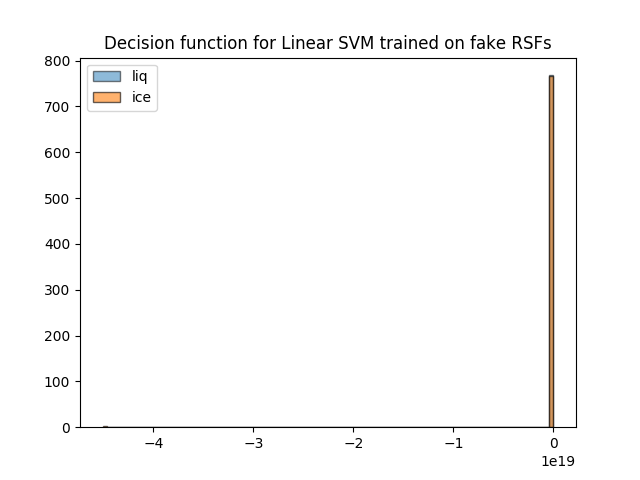
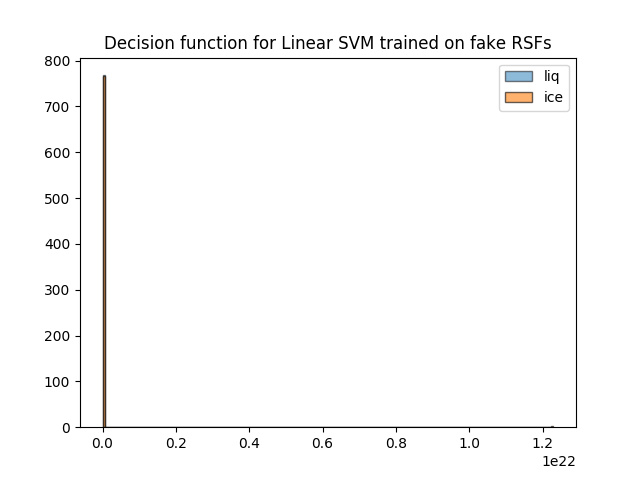
trying to make better histogram of fake rsf-trained svm decision function

diff --git a/rsf_svm.py b/rsf_svm.py
@@ -81,7 +81,7 @@ def validation_curve(X, y, fname="linearsvm_validation.png"):
     plot_scores(train_scores, test_scores, "Validation Curve with SVM", param_range, 
                 fname, plt.semilogx, "C")
 
-def plot_SVM_confidence(X, y, sep_val_confidence=False, X_val=None, y_val=None, fname="confidence.png", title="Decision Function"):
+def plot_SVM_confidence(X, y, sep_val_confidence=False, X_val=None, y_val=None, nbins=100, fname="confidence.png", title="Decision Function"):
     if not sep_val_confidence:
         X_val = X
         y_val = y
@@ -91,7 +91,7 @@ def plot_SVM_confidence(X, y, sep_val_confidence=False, X_val=None, y_val=None, 
     maxconf = confidence.max()
     minconf = confidence.min()
     
-    bins = np.linspace(minconf, maxconf, 100)
+    bins = np.linspace(minconf, maxconf, nbins)
     plt.hist(confidence[y_val==1], bins=bins, alpha=.5, label="liq", edgecolor="k")
     plt.hist(confidence[y_val==0], bins=bins, alpha=.6, label="ice", edgecolor="k")
     plt.title(title)
@@ -110,11 +110,12 @@ pseudo_scaler, pseudo_X = rsf_load_data.scale_data(pseudo_X)
 plot_SVM_confidence(pseudo_X, y_train, 
                     sep_val_confidence=True,
                     X_val=pseudo_scaler.transform(X_val), y_val=y_val, 
+                    nbins=200,
                     fname="fake_confidence.png", 
                     title="Decision function for Linear SVM trained on fake RSFs")
-plot_SVM_confidence(X_train, y_train,
-                    fname="confidence.png", 
-                    title="Decision function for Linear SVM training data")
+#plot_SVM_confidence(X_train, y_train,
+#                    fname="confidence.png", 
+#                    title="Decision function for Linear SVM training data")
 #simple_SVM(X_train, y_train, X_val, y_val)
 #simple_SVM(pseudo_X, y_train, pseudo_scaler.transform(X_train), y_train)
 #simple_SVM(X_train, y_train, scaler.transform(X_val), y_val)
